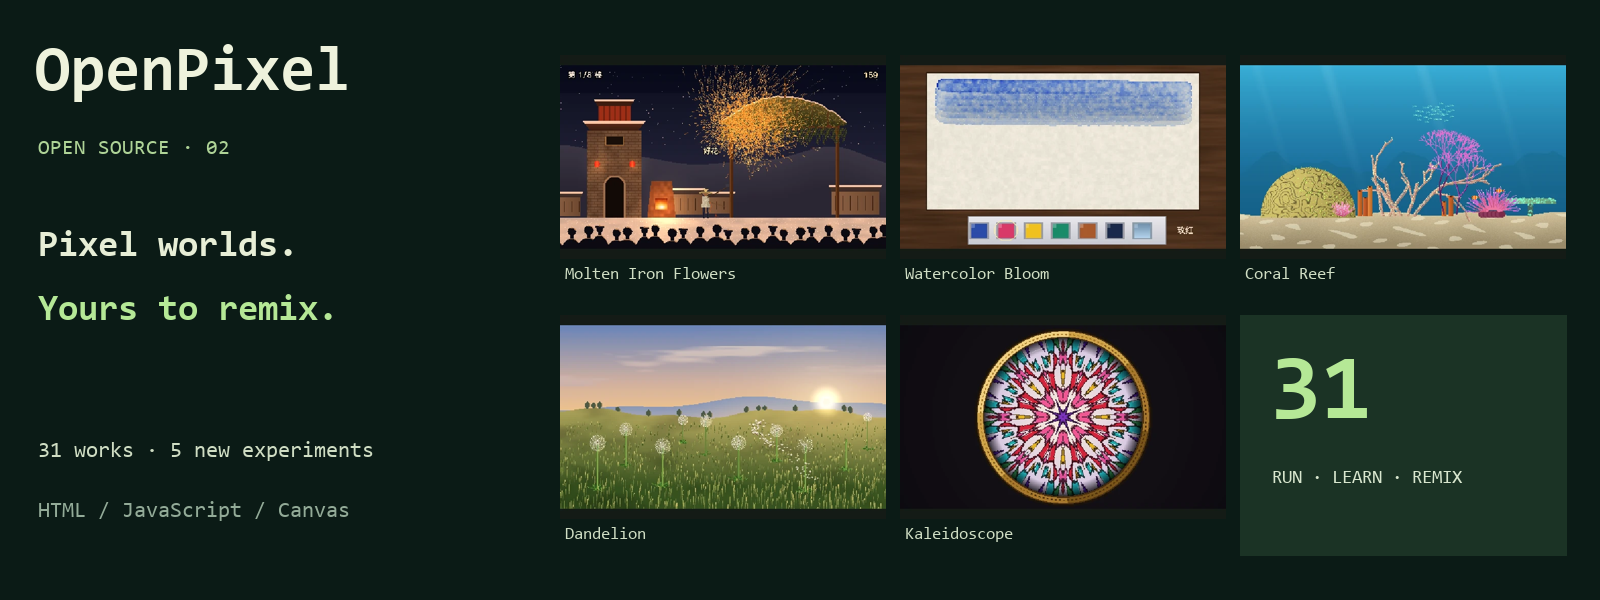
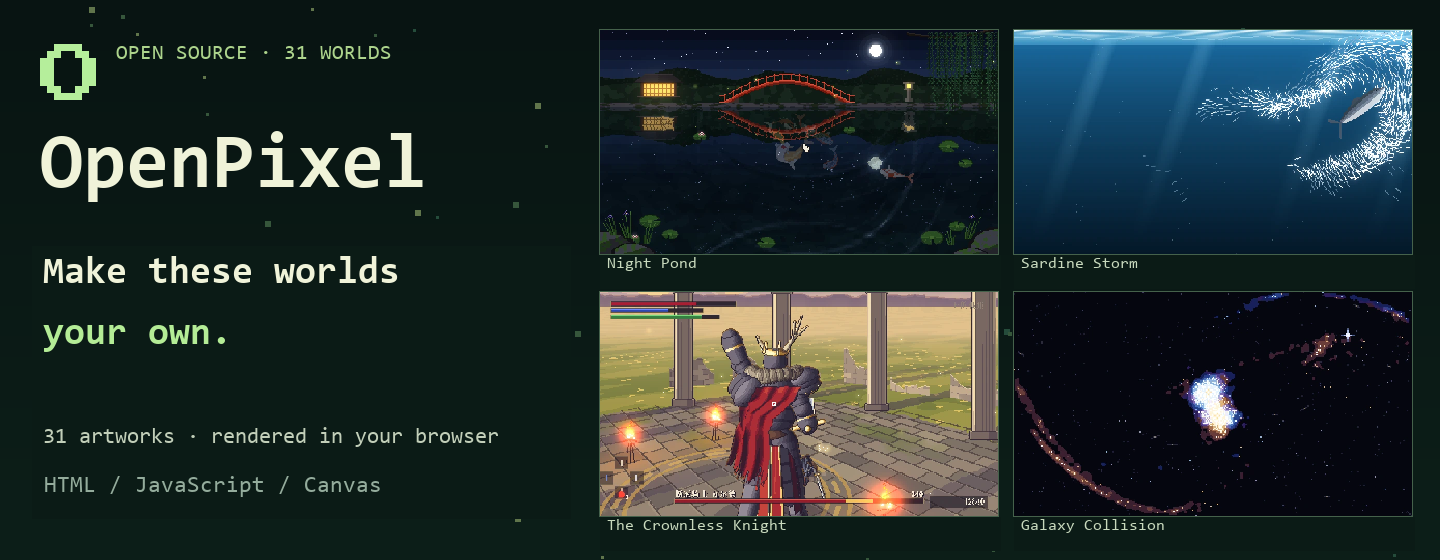
恢复首版封面风格与动态展示，保留31件在线预览

diff --git a/README.ko.md b/README.ko.md
@@ -2,7 +2,7 @@
 
 [中文](README.md) · [English](README.en.md) · [日本語](README.ja.md) · [한국어](README.ko.md)
 
-<img src="docs/assets/banner.ko.png" alt="OpenPixel — 픽셀 세계를 나만의 작품으로." width="100%">
+<a href="https://ma1902056219-coder.github.io/openpixel/"><img src="docs/assets/banner.ko.gif" alt="OpenPixel — 픽셀 세계를 나만의 작품으로." width="100%"></a>
 
 # OpenPixel
 
@@ -18,6 +18,19 @@
 **[▶ 모든 작품 온라인 체험](https://ma1902056219-coder.github.io/openpixel/)**
 
 </div>
+
+## 움직이는 모습부터 살펴보세요
+
+<div align="center">
+<img src="docs/assets/showcase.gif" alt="실제 실행 화면: 물결, 물고기 떼, 은하 충돌" width="850">
+</div>
+
+실제로 실행한 작품 화면입니다. 31개 작품을 온라인으로 체험하거나 소스를 다운로드해 나만의 작품으로 바꿔 보세요.
+
+- **직접 만져보기:** 비단잉어에게 먹이를 주고, 자기장을 움직이고, 성에를 닦고, 모래에 무늬를 남겨 보세요.
+- **변화 관찰하기:** 위성은 고리가 되고, 물고기는 돌고래를 피하며, 별의 궤적은 긴 꼬리를 만듭니다.
+- **장면 속으로 들어가기:** 보스 전투, 노을 속 드라이브, 퍼즐을 맞추면 움직이는 마을.
+- **소스 수정하기:** 작품마다 독립 폴더, 소스 코드, 설명을 제공합니다. 빌드나 AI API가 필요하지 않습니다.
 
 ## 두 번째 공개 · 직접 바꿔 볼 다섯 실험
 
@@ -35,20 +48,6 @@
 <td width="33%"></td>
 </tr>
 </table>
-
-
-## 움직이는 모습부터 살펴보세요
-
-<div align="center">
-<img src="docs/assets/batch-02.gif" alt="쇳물 꽃불, 수채화, 산호, 민들레와 만화경의 실제 실행 화면" width="850">
-</div>
-
-이번에 추가한 다섯 작품의 실제 실행 화면입니다. 첫 공개 26개를 포함해 현재 총 31개 작품입니다.
-
-- **직접 만져보기:** 비단잉어에게 먹이를 주고, 자기장을 움직이고, 성에를 닦고, 모래에 무늬를 남겨 보세요.
-- **변화 관찰하기:** 위성은 고리가 되고, 물고기는 돌고래를 피하며, 별의 궤적은 긴 꼬리를 만듭니다.
-- **장면 속으로 들어가기:** 보스 전투, 노을 속 드라이브, 퍼즐을 맞추면 움직이는 마을.
-- **소스 수정하기:** 작품마다 독립 폴더, 소스 코드, 설명을 제공합니다. 빌드나 AI API가 필요하지 않습니다.
 
 <a id="start"></a>
 

diff --git a/README.md b/README.md
@@ -2,7 +2,7 @@
 
 [中文](README.md) · [English](README.en.md) · [日本語](README.ja.md) · [한국어](README.ko.md)
 
-<img src="docs/assets/openpixel-banner.png" alt="OpenPixel：31个可以运行、探索和修改的像素小世界" width="100%">
+<a href="https://ma1902056219-coder.github.io/openpixel/"><img src="docs/assets/openpixel-banner.gif" alt="OpenPixel：31个可以运行、探索和修改的像素小世界" width="100%"></a>
 
 # OpenPixel · 像素万象
 
@@ -18,6 +18,21 @@
 **[▶ 在线体验全部作品](https://ma1902056219-coder.github.io/openpixel/)**
 
 </div>
+
+## 先看它们动起来
+
+<div align="center">
+<img src="docs/assets/showcase.gif" alt="实际运行画面：点水产生涟漪、鱼群避让、星系相撞" width="850">
+</div>
+
+来自真实运行的作品画面。点击作品图卡即可在线体验，也能下载源码改成自己的版本。
+
+- **伸手触碰**：点水喂鱼、移动磁场、擦去霜花、在砂面留下耙痕。
+- **观察变化**：卫星碎裂成环、鱼群躲避海豚、恒星轨迹拉出长尾。
+- **走进场景**：首领战、落日驾驶、拼好后开始运动的微型世界。
+- **直接改源码**：每件作品独立成目录，附实际画面和中文说明，无需构建或 AI 接口。
+
+仓库首页、修改指南和31件作品的操作说明现提供中文、英文、日文、韩文。作品内界面及源码注释仍以中文为主。
 
 ## 第二批新增 · 5 个可拆解的像素实验
 
@@ -35,22 +50,6 @@
 <td width="33%"></td>
 </tr>
 </table>
-
-
-## 先看它们动起来
-
-<div align="center">
-<img src="docs/assets/batch-02.gif" alt="打铁花、水彩、珊瑚、蒲公英与万花筒的实际运行画面" width="850">
-</div>
-
-本次新增作品的实际运行预览。当前合集共 31 件；首批 26 件仍完整保留。
-
-- **伸手触碰**：点水喂鱼、移动磁场、擦去霜花、在砂面留下耙痕。
-- **观察变化**：卫星碎裂成环、鱼群躲避海豚、恒星轨迹拉出长尾。
-- **走进场景**：首领战、落日驾驶、拼好后开始运动的微型世界。
-- **直接改源码**：每件作品独立成目录，附实际画面和中文说明，无需构建或 AI 接口。
-
-仓库首页、修改指南和31件作品的操作说明现提供中文、英文、日文、韩文。作品内界面及源码注释仍以中文为主。
 
 ## 开始运行
 

diff --git a/README.ja.md b/README.ja.md
@@ -2,7 +2,7 @@
 
 [中文](README.md) · [English](README.en.md) · [日本語](README.ja.md) · [한국어](README.ko.md)
 
-<img src="docs/assets/banner.ja.png" alt="OpenPixel — ピクセルの世界を、あなたの作品に。" width="100%">
+<a href="https://ma1902056219-coder.github.io/openpixel/"><img src="docs/assets/banner.ja.gif" alt="OpenPixel — ピクセルの世界を、あなたの作品に。" width="100%"></a>
 
 # OpenPixel
 
@@ -18,6 +18,19 @@
 **[▶ 全作品をオンラインで体験](https://ma1902056219-coder.github.io/openpixel/)**
 
 </div>
+
+## まずは動く様子を
+
+<div align="center">
+<img src="docs/assets/showcase.gif" alt="実際の実行画面：波紋、魚群、銀河の衝突" width="850">
+</div>
+
+実際に動かした作品の映像です。31作品をオンラインで体験し、ソースをダウンロードして自分の作品に改造できます。
+
+- **触ってみる：** 錦鯉に餌をあげ、磁場を動かし、霜を拭い、砂紋を描けます。
+- **変化を眺める：** 衛星が環になり、魚群がイルカを避け、星の軌跡が長い尾になります。
+- **場面に入り込む：** ボス戦、夕暮れのドライブ、パズルがはまると動き出す町。
+- **ソースを改造する：** 作品ごとに独立したフォルダー、ソース、説明を用意。ビルドや AI API は不要です。
 
 ## 第2弾 · 改造して学べる5つの実験
 
@@ -35,20 +48,6 @@
 <td width="33%"></td>
 </tr>
 </table>
-
-
-## まずは動く様子を
-
-<div align="center">
-<img src="docs/assets/batch-02.gif" alt="打鉄花、水彩、サンゴ、タンポポ、万華鏡の実行映像" width="850">
-</div>
-
-今回追加した5作品の実際の実行映像です。初回の26作品を含め、現在は全31作品です。
-
-- **触ってみる：** 錦鯉に餌をあげ、磁場を動かし、霜を拭い、砂紋を描けます。
-- **変化を眺める：** 衛星が環になり、魚群がイルカを避け、星の軌跡が長い尾になります。
-- **場面に入り込む：** ボス戦、夕暮れのドライブ、パズルがはまると動き出す町。
-- **ソースを改造する：** 作品ごとに独立したフォルダー、ソース、説明を用意。ビルドや AI API は不要です。
 
 <a id="start"></a>
 

diff --git a/README.en.md b/README.en.md
@@ -2,7 +2,7 @@
 
 [中文](README.md) · [English](README.en.md) · [日本語](README.ja.md) · [한국어](README.ko.md)
 
-<img src="docs/assets/banner.en.png" alt="OpenPixel — Make these pixel worlds your own." width="100%">
+<a href="https://ma1902056219-coder.github.io/openpixel/"><img src="docs/assets/banner.en.gif" alt="OpenPixel — Make these pixel worlds your own." width="100%"></a>
 
 # OpenPixel
 
@@ -18,6 +18,19 @@
 **[▶ Try all artworks online](https://ma1902056219-coder.github.io/openpixel/)**
 
 </div>
+
+## See them in motion
+
+<div align="center">
+<img src="docs/assets/showcase.gif" alt="Actual runtime footage: ripples, schooling fish and colliding galaxies" width="850">
+</div>
+
+Captured from the running artworks. Try any of the 31 works online, or download the source to make it your own.
+
+- **Reach in:** feed koi, move a magnetic field, wipe frost and rake sand.
+- **Watch it evolve:** moons form rings, fish avoid a dolphin and stars draw long tails.
+- **Take over a scene:** a boss encounter, a sunset drive and a town that wakes up as a puzzle is assembled.
+- **Edit the source:** each artwork has its own folder, source and instructions. No build step or AI API is required.
 
 ## Batch 02 · Five more experiments to remix
 
@@ -35,20 +48,6 @@ From molten sparks to seeds: each folder runs independently, with editable code 
 <td width="33%"></td>
 </tr>
 </table>
-
-
-## See them in motion
-
-<div align="center">
-<img src="docs/assets/batch-02.gif" alt="Actual runtime footage of molten iron flowers, watercolor, coral, dandelions and a kaleidoscope" width="850">
-</div>
-
-Actual runtime footage from the five new experiments. The collection now contains 31 works, including all 26 from the first batch.
-
-- **Reach in:** feed koi, move a magnetic field, wipe frost and rake sand.
-- **Watch it evolve:** moons form rings, fish avoid a dolphin and stars draw long tails.
-- **Take over a scene:** a boss encounter, a sunset drive and a town that wakes up as a puzzle is assembled.
-- **Edit the source:** each artwork has its own folder, source and instructions. No build step or AI API is required.
 
 <a id="start"></a>
 
